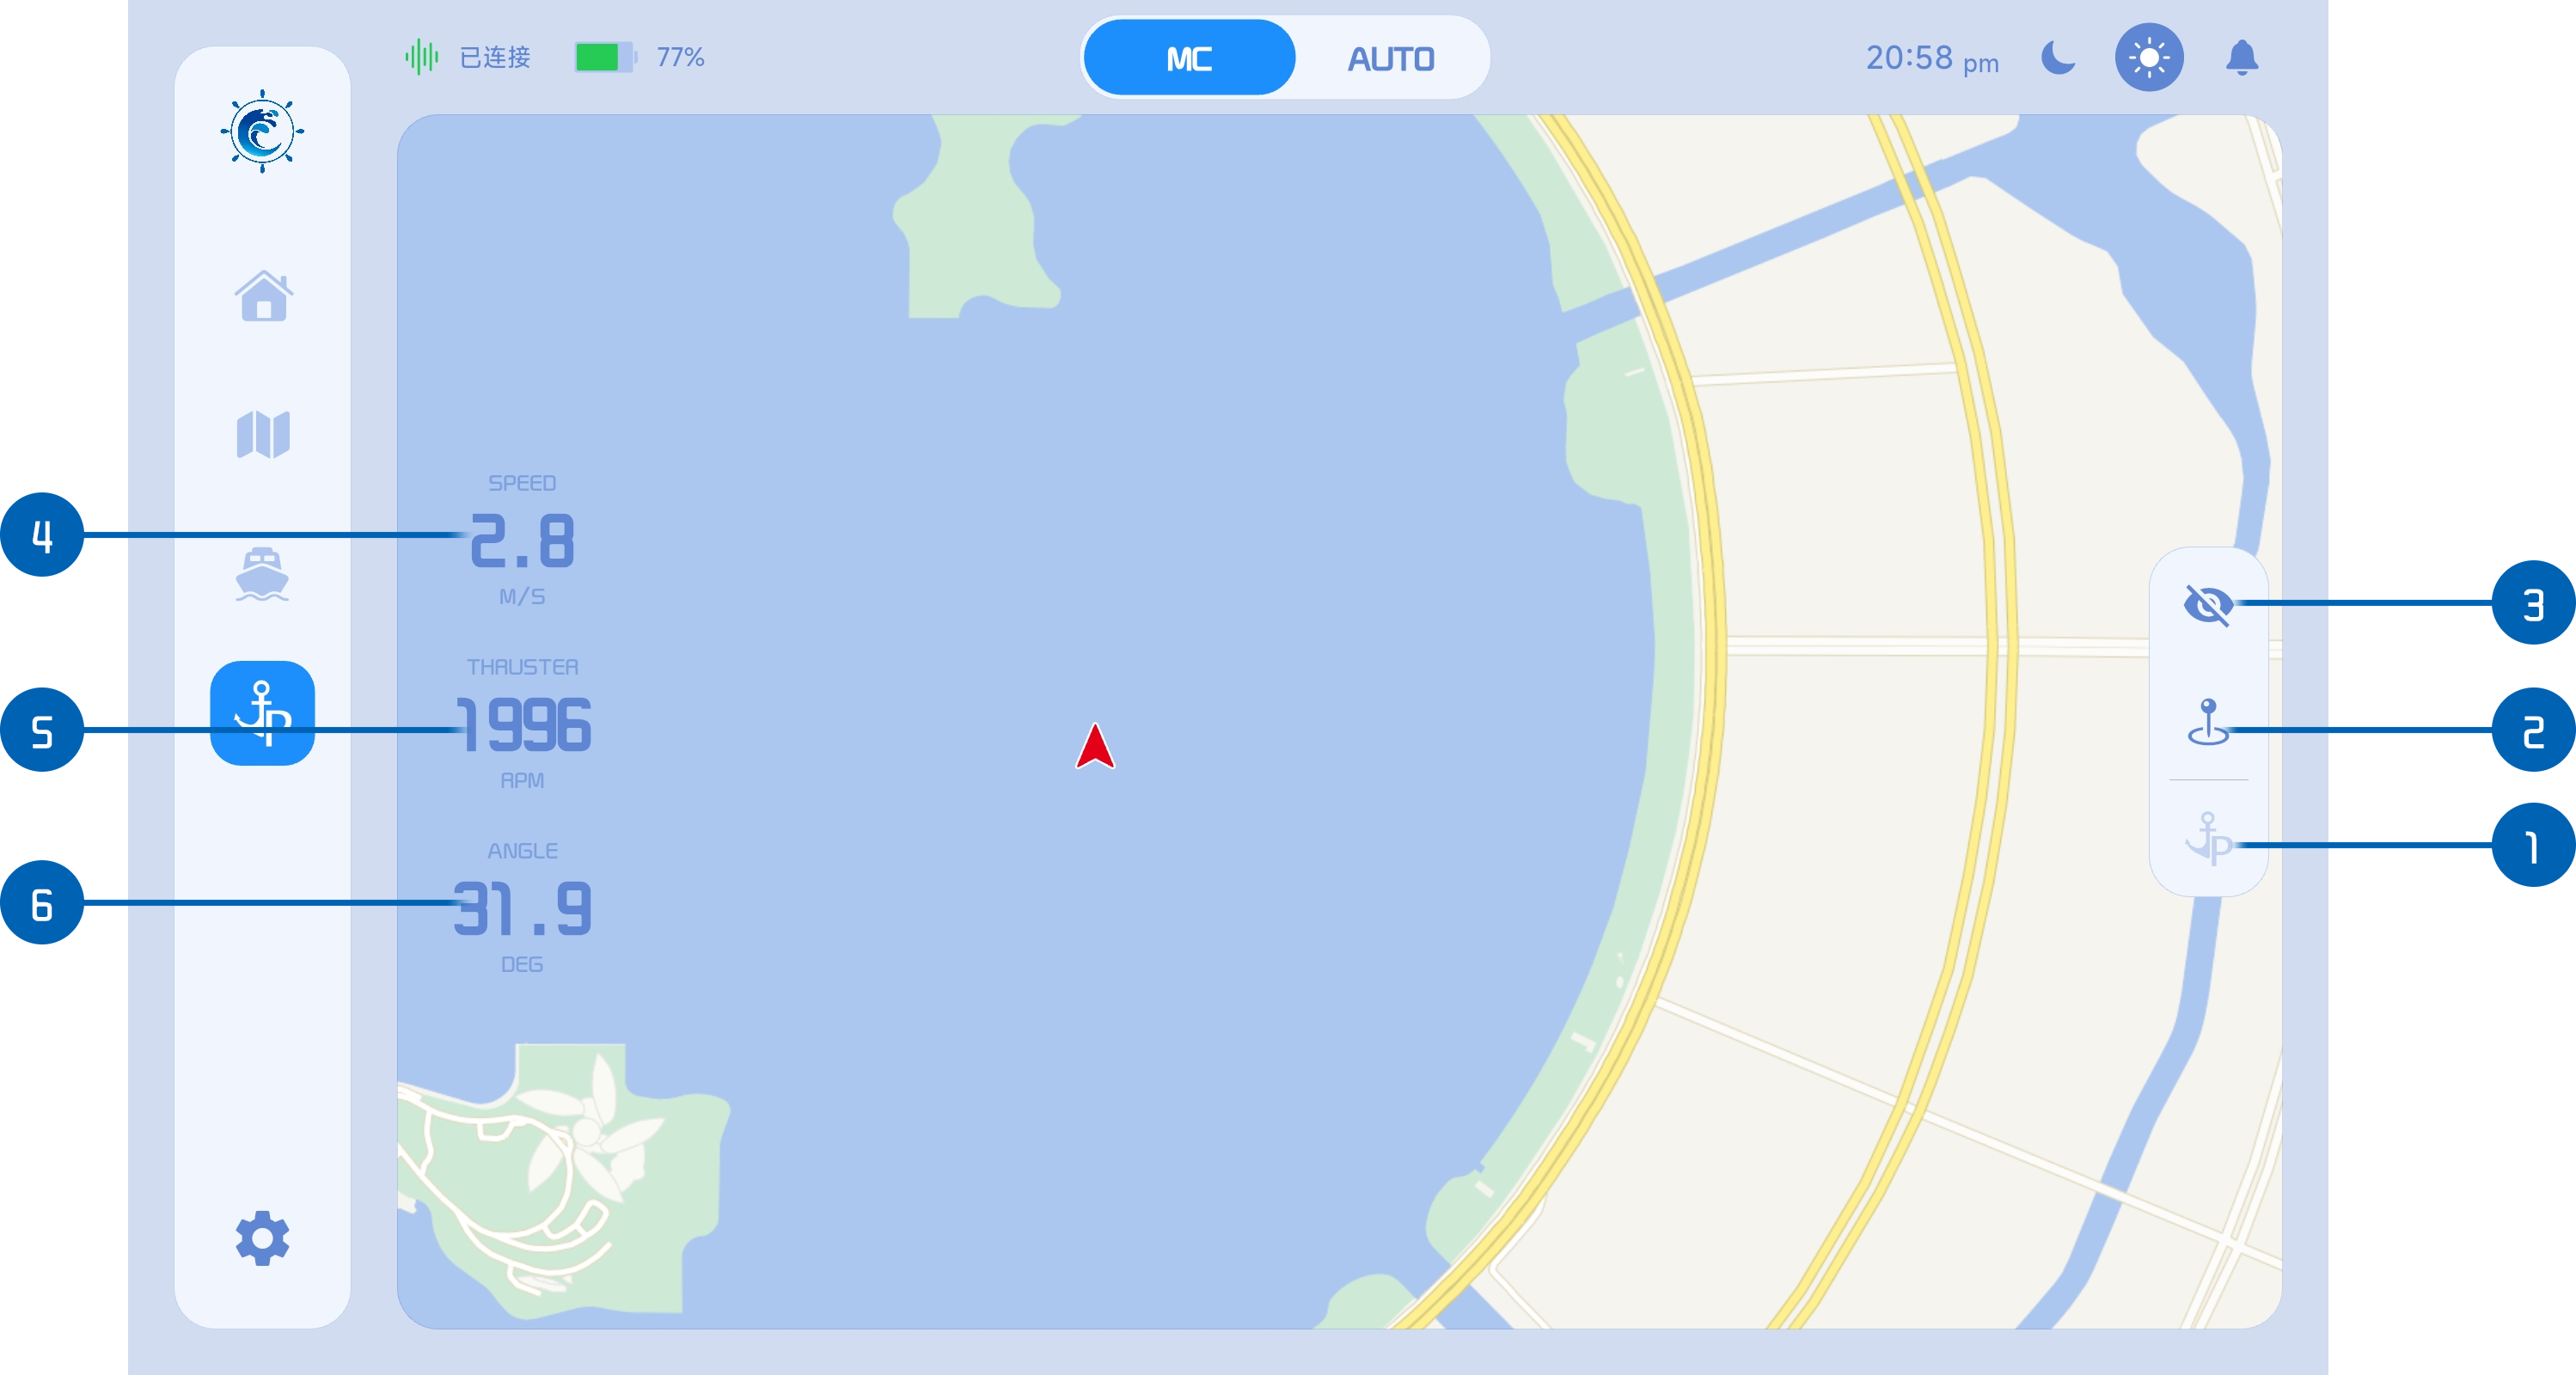
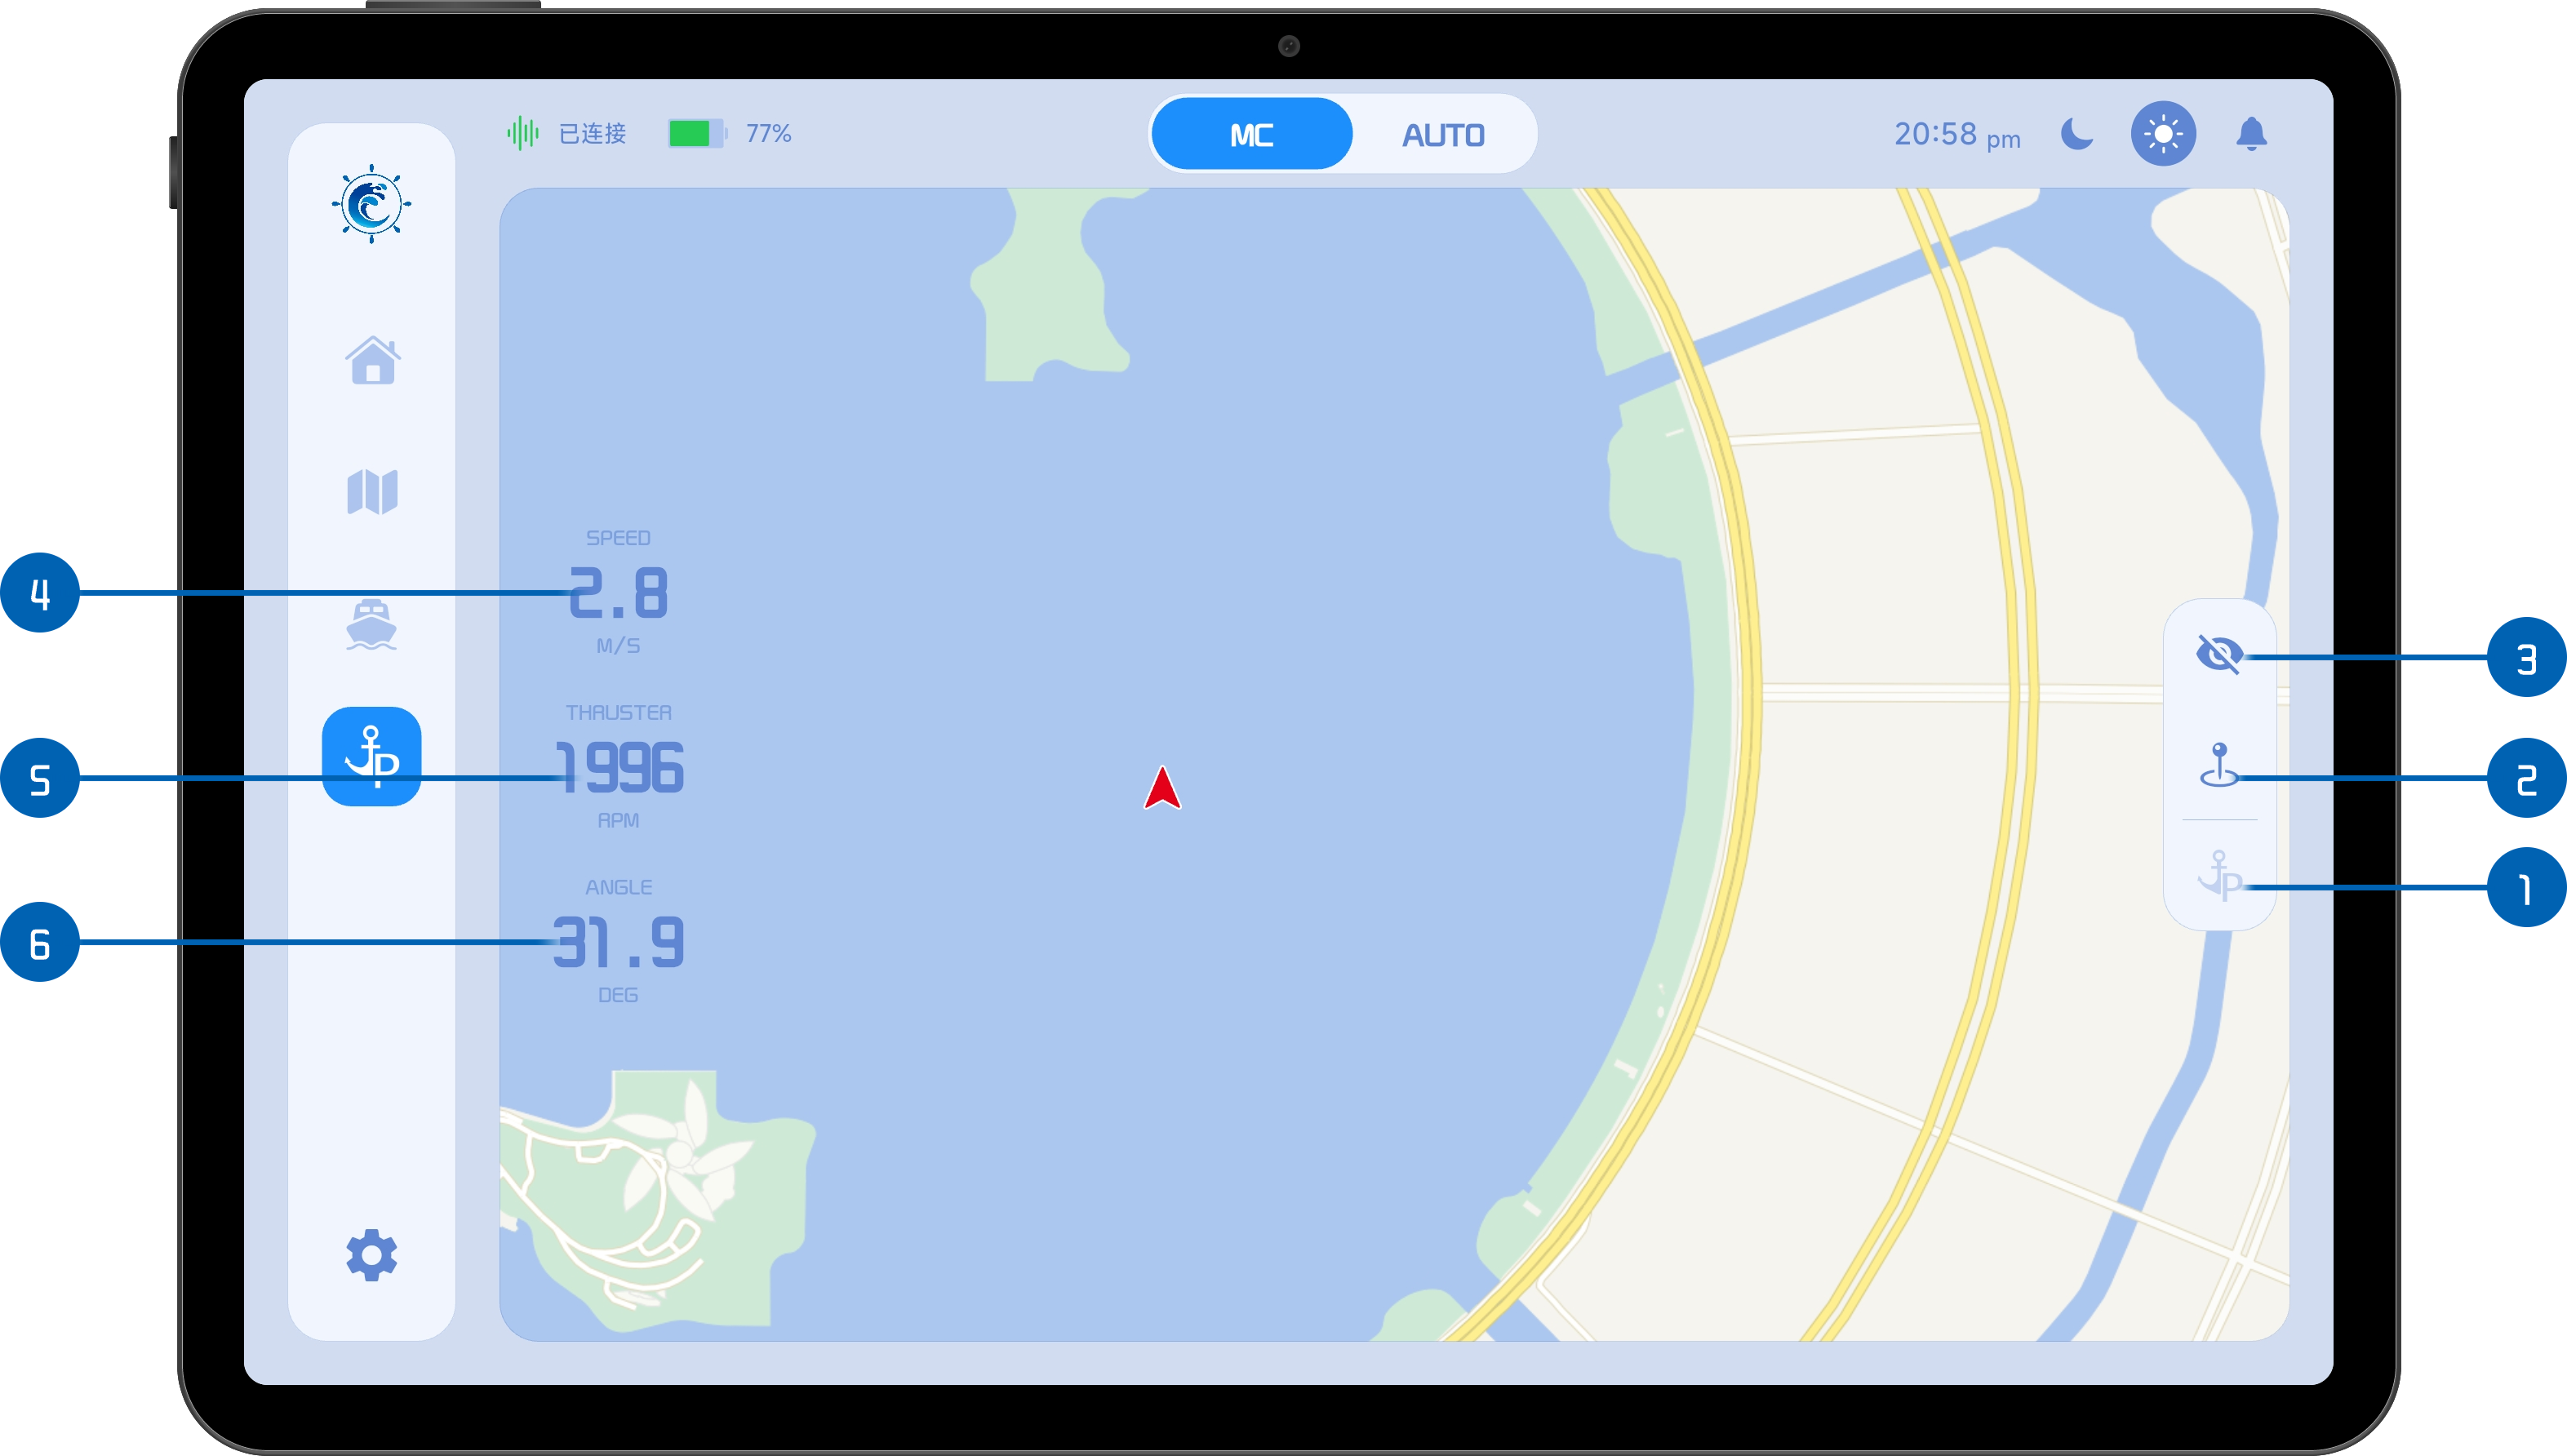
替换了全部图片

diff --git a/docs/SettingPage/feature/themeSetting.md b/docs/SettingPage/feature/themeSetting.md
@@ -4,12 +4,12 @@
 
 用户可通过点击切换按钮，在不同主题模式之间快速切换，以获得更合适的视觉体验。
 
-![主题切换](./img/themeSetting/主题切换.jpg)
+![主题切换](./img/themeSetting/主题切换.png)
 
 ## 深色模式效果：
 
 深色模式适用于弱光或夜间环境，可有效降低屏幕亮度刺激，提升长时间使用的舒适性。在深色模式下，地图与界面整体采用深色风格显示，以增强对比度并突出关键操作元素。
 
-![深色模式](./img/themeSetting/深色模式.jpg)
+![深色模式](./img/themeSetting/深色模式.png)
 
-![深色地图](./img/themeSetting/深色地图.jpg)
+![深色地图](./img/themeSetting/深色地图.png)

diff --git a/docs/BerthPage/feature/saveBerthPosition.md b/docs/BerthPage/feature/saveBerthPosition.md
@@ -8,7 +8,7 @@
 
 点击该按钮后，将弹出“保存泊位”确认窗口，用户需输入泊位名称。确认信息无误后，点击“确定”即可完成保存，泊位将存储至本地。
 
-![泊位保存弹窗](./img/saveBerthPosition/泊位保存弹窗.jpg)
+![泊位保存弹窗](./img/saveBerthPosition/泊位保存弹窗.png)
 
 ## 2、加载已保存泊位
 
@@ -16,5 +16,5 @@
 
 在弹窗中选择目标泊位后，点击“确定”，系统将自动将该泊位加载至地图中并生效
 
-![保存的泊位弹窗列表](./img/saveBerthPosition/保存的泊位弹窗列表.jpg)
+![保存的泊位弹窗列表](./img/saveBerthPosition/保存的泊位弹窗列表.png)
 

diff --git a/docs/SettingPage/feature/shipSetting.md b/docs/SettingPage/feature/shipSetting.md
@@ -2,7 +2,7 @@
 
 船舶设置页面用于配置船舶运行相关的核心参数，包括航速限制、船体尺寸、电池参数以及推进器性能等，以确保系统显示与控制逻辑与实际船舶状态一致。
 
-![设置首页](../img/settingPage/设置首页.jpg)
+![设置首页](./img/shipSetting/设置首页.png)
 
 1. **最大 / 最小航速设置**
 

diff --git a/docs/SettingPage/settingPage.md b/docs/SettingPage/settingPage.md
@@ -4,4 +4,4 @@
 
 进入设置页面后，默认显示“[船舶信息](./feature/shipSetting.md)”配置界面。
 
-![设置首页](./img/settingPage/设置首页.jpg)
+![设置首页](./img/settingPage/设置首页.png)